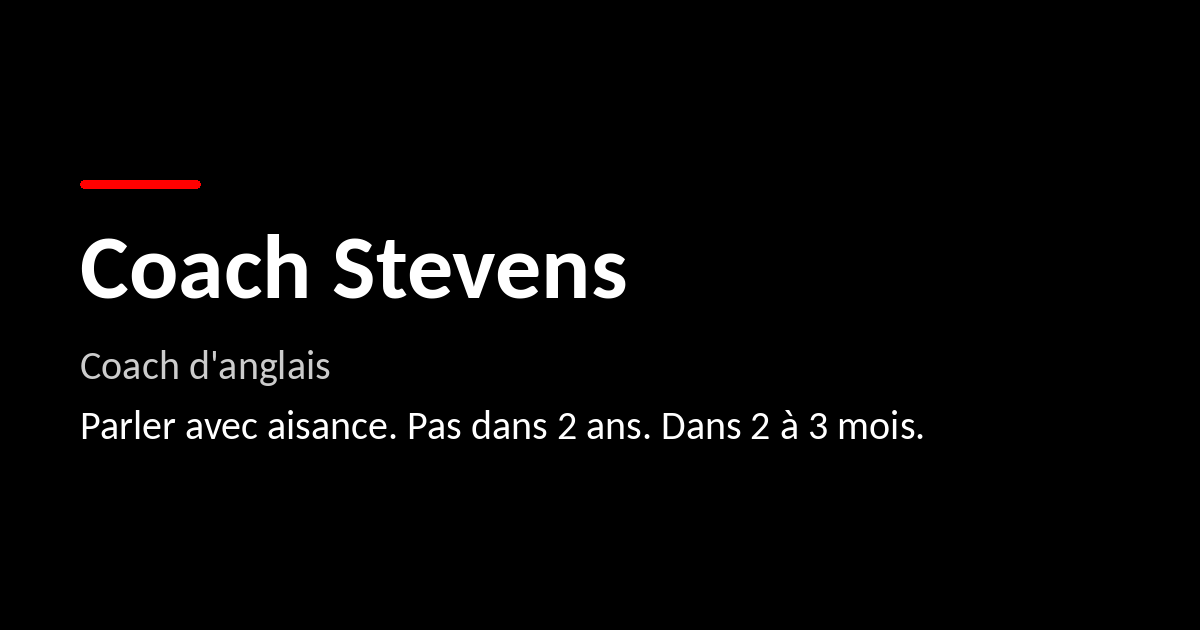
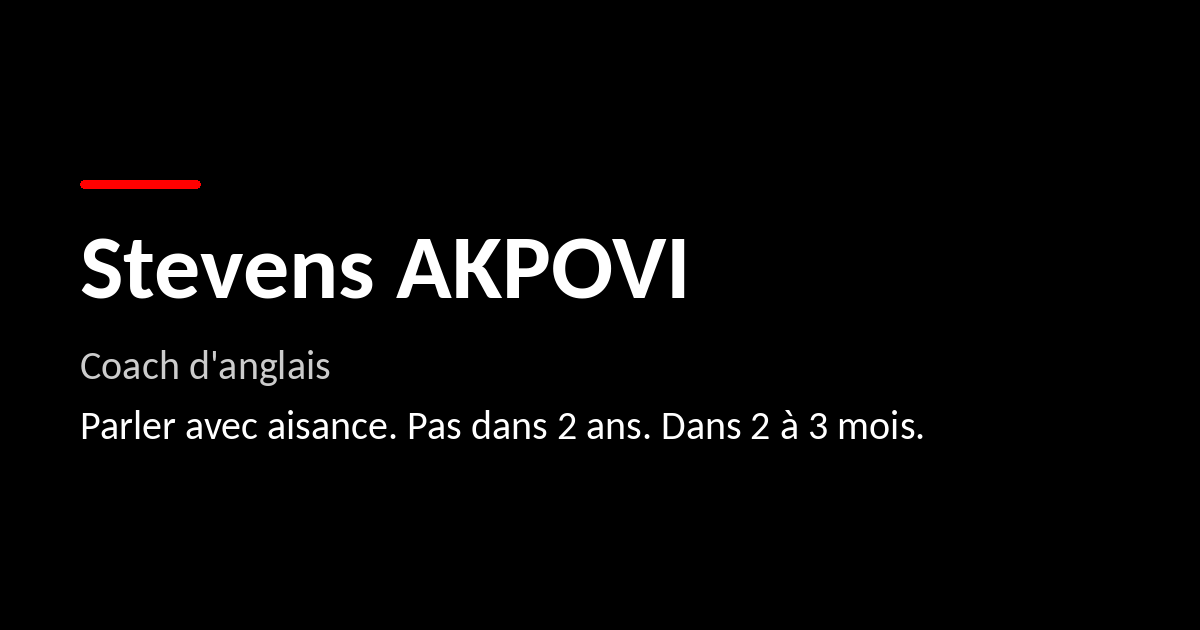
Section Ma méthode : image METHOD-01 (nouvelle version, sans miroir) à même hauteur que le bloc texte ; OG-SOCIAL : « Stevens AKPOVI » remplace « Coach Stevens »

Changed region(s): [[0.0617, 0.3619, 0.5858, 0.4825]]

diff --git a/src/components/site/pages/home-page.tsx b/src/components/site/pages/home-page.tsx
@@ -20,7 +20,8 @@ import { StickyCTA } from "../sticky-cta";
  * à gauche) → Problème/Agitation (fond noir, image PROBLEME-01 à gauche
  * du texte d'agitation aligné à droite — instruction propriétaire) →
  * Solution (retour blanc avec fondu noir → blanc, 98 %, image METHOD-01
- * miroir à droite du bloc contenu — instruction propriétaire) → La
+ * nouvelle version à droite du bloc contenu, de même hauteur que lui —
+ * instruction propriétaire) → La
  * Méthode (angle grammaire vs vivante, format, objection). Voix éditoriale :
  * le coach parle à la première personne (« je ») directement au prospect
  * (instruction propriétaire). Tous les CTA mènent au formulaire de
@@ -180,15 +181,18 @@ function ProblemeAgitation() {
 /* — Solution : retour au blanc. Le fond passe du noir au blanc
      par fondu 500ms à l'entrée dans le viewport.
      Card avec le chiffre clé 98 % en noir, et l'image METHOD-01
-     (miroir horizontal — instruction propriétaire) intégrée À DROITE
-     du bloc enveloppant le contenu. Voix première personne
+     (nouvelle version, SANS miroir — instruction propriétaire) intégrée
+     À DROITE du bloc enveloppant le contenu, à la MÊME HAUTEUR que lui
+     (instruction propriétaire). Voix première personne
      (instruction propriétaire). Mobile : bloc puis image, empilés. — */
 function Solution() {
   return (
     <section className="relative overflow-hidden bg-white">
       <DarkFadeOverlay />
       <Container className="relative py-12 lg:py-24">
-        <div className="grid items-center gap-10 lg:grid-cols-[minmax(0,46rem)_minmax(0,22rem)] lg:justify-center lg:gap-12">
+        {/* items-stretch : l'image (droite) prend la MÊME HAUTEUR que le
+            bloc texte (gauche) — instruction propriétaire. */}
+        <div className="grid gap-10 lg:grid-cols-[minmax(0,46rem)_minmax(0,22rem)] lg:items-stretch lg:justify-center lg:gap-12">
           {/* Bloc contenu (à gauche de l'image) */}
           <Reveal>
             <div className="card-base card-hover p-6 md:p-10 lg:p-12">
@@ -222,17 +226,23 @@ function Solution() {
             </div>
           </Reveal>
 
-          {/* Image METHOD-01 — à droite du bloc (retournée en miroir :
-              l'apprenante souriante regarde vers le contenu, à sa gauche) */}
+          {/* Image METHOD-01 (nouvelle version, SANS miroir — instruction
+              propriétaire : le sujet regarde déjà vers la gauche, vers le
+              contenu). Même hauteur que le bloc à sa gauche sur desktop :
+              le conteneur est étiré (lg:h-full) et l'image recadrée par
+              object-cover, décalée à 60 % pour préserver la tasse
+              « Small Steps Big Progress ». Mobile : ratio naturel 2:3,
+              aucune coupe. Servie sans ré-encodage (unoptimized) pour la
+              netteté (leçon hero). */}
           <Reveal delay={120}>
-            <div className="relative mx-auto w-full max-w-[22rem] overflow-hidden rounded-[12px] lg:mx-0">
+            <div className="relative mx-auto aspect-[2/3] w-full max-w-[22rem] overflow-hidden rounded-[12px] lg:mx-0 lg:aspect-auto lg:h-full">
               <Image
                 src="/assets/METHOD-01.webp"
-                alt="Apprenante épanouie et souriante en pleine séance de coaching d'anglais en visioconférence, tournée vers la méthode"
-                width={900}
-                height={1350}
+                alt="Apprenante souriante en pleine séance de coaching d'anglais en ligne, concentrée sur son écran — tasse « Small Steps Big Progress » posée sur le bureau"
                 sizes="(max-width: 1023px) 92vw, 352px"
-                className="h-auto w-full"
+                fill
+                unoptimized
+                className="object-cover object-[60%_center]"
               />
             </div>
           </Reveal>
